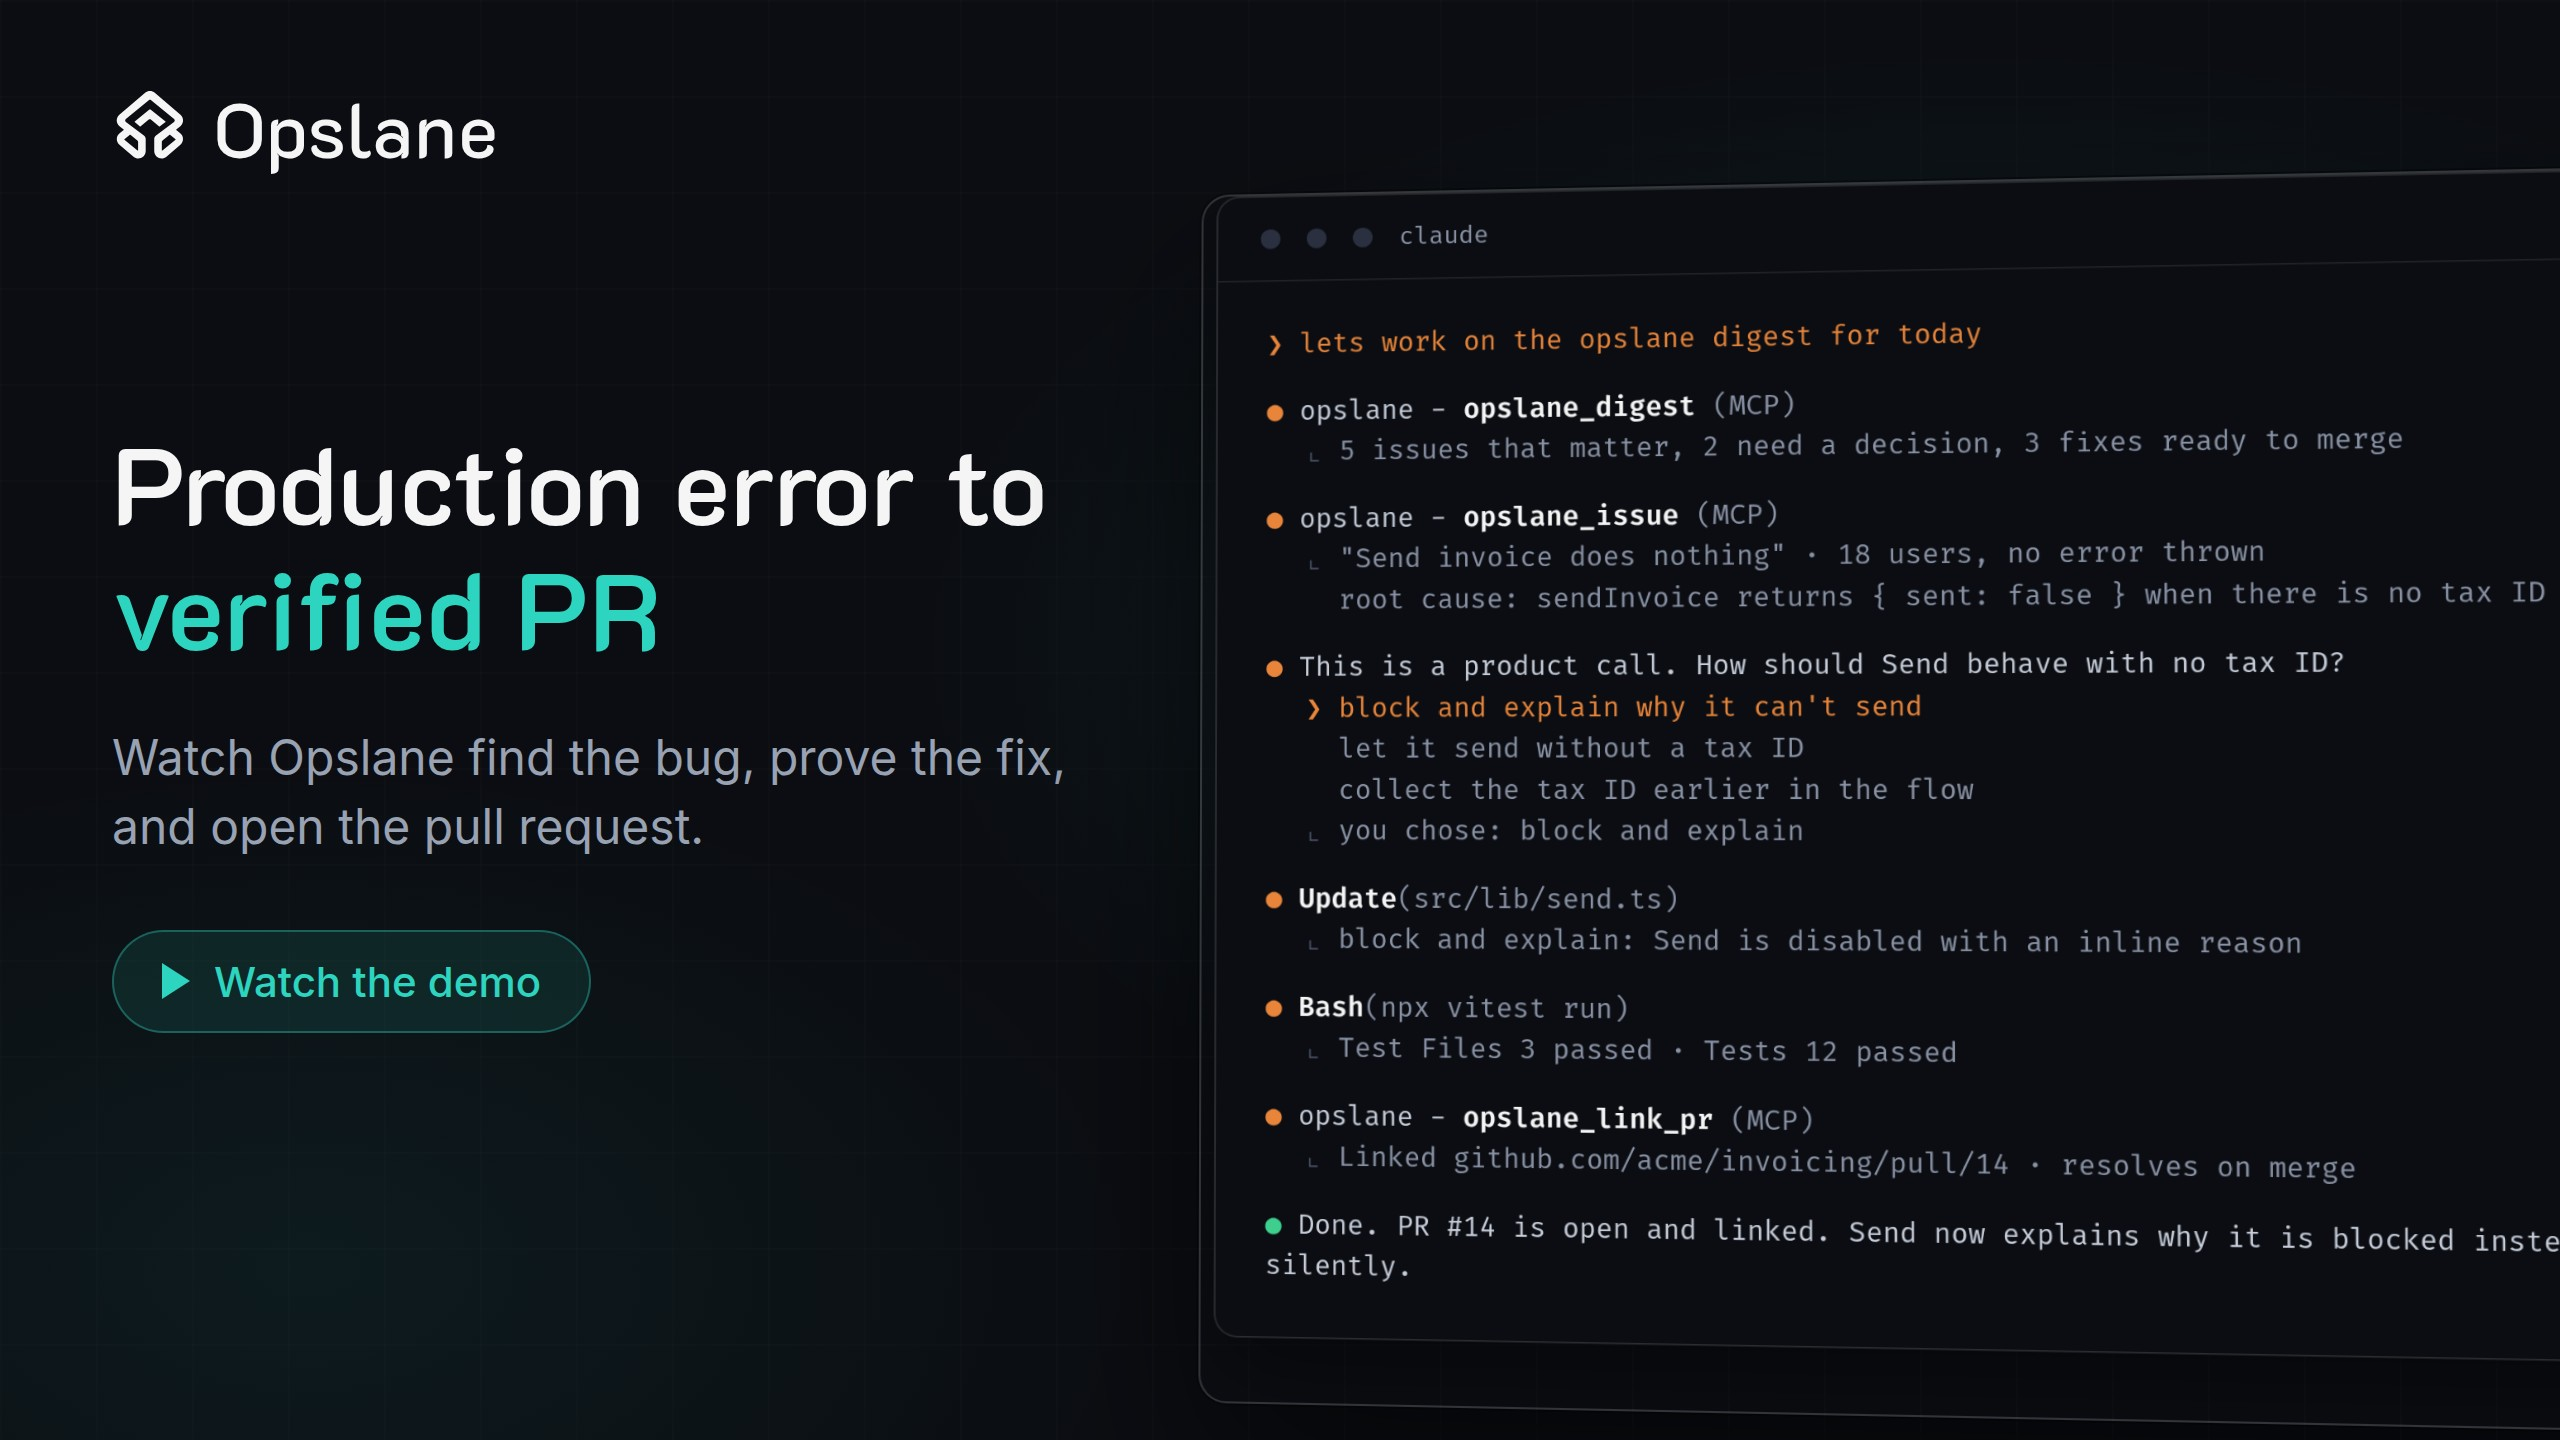
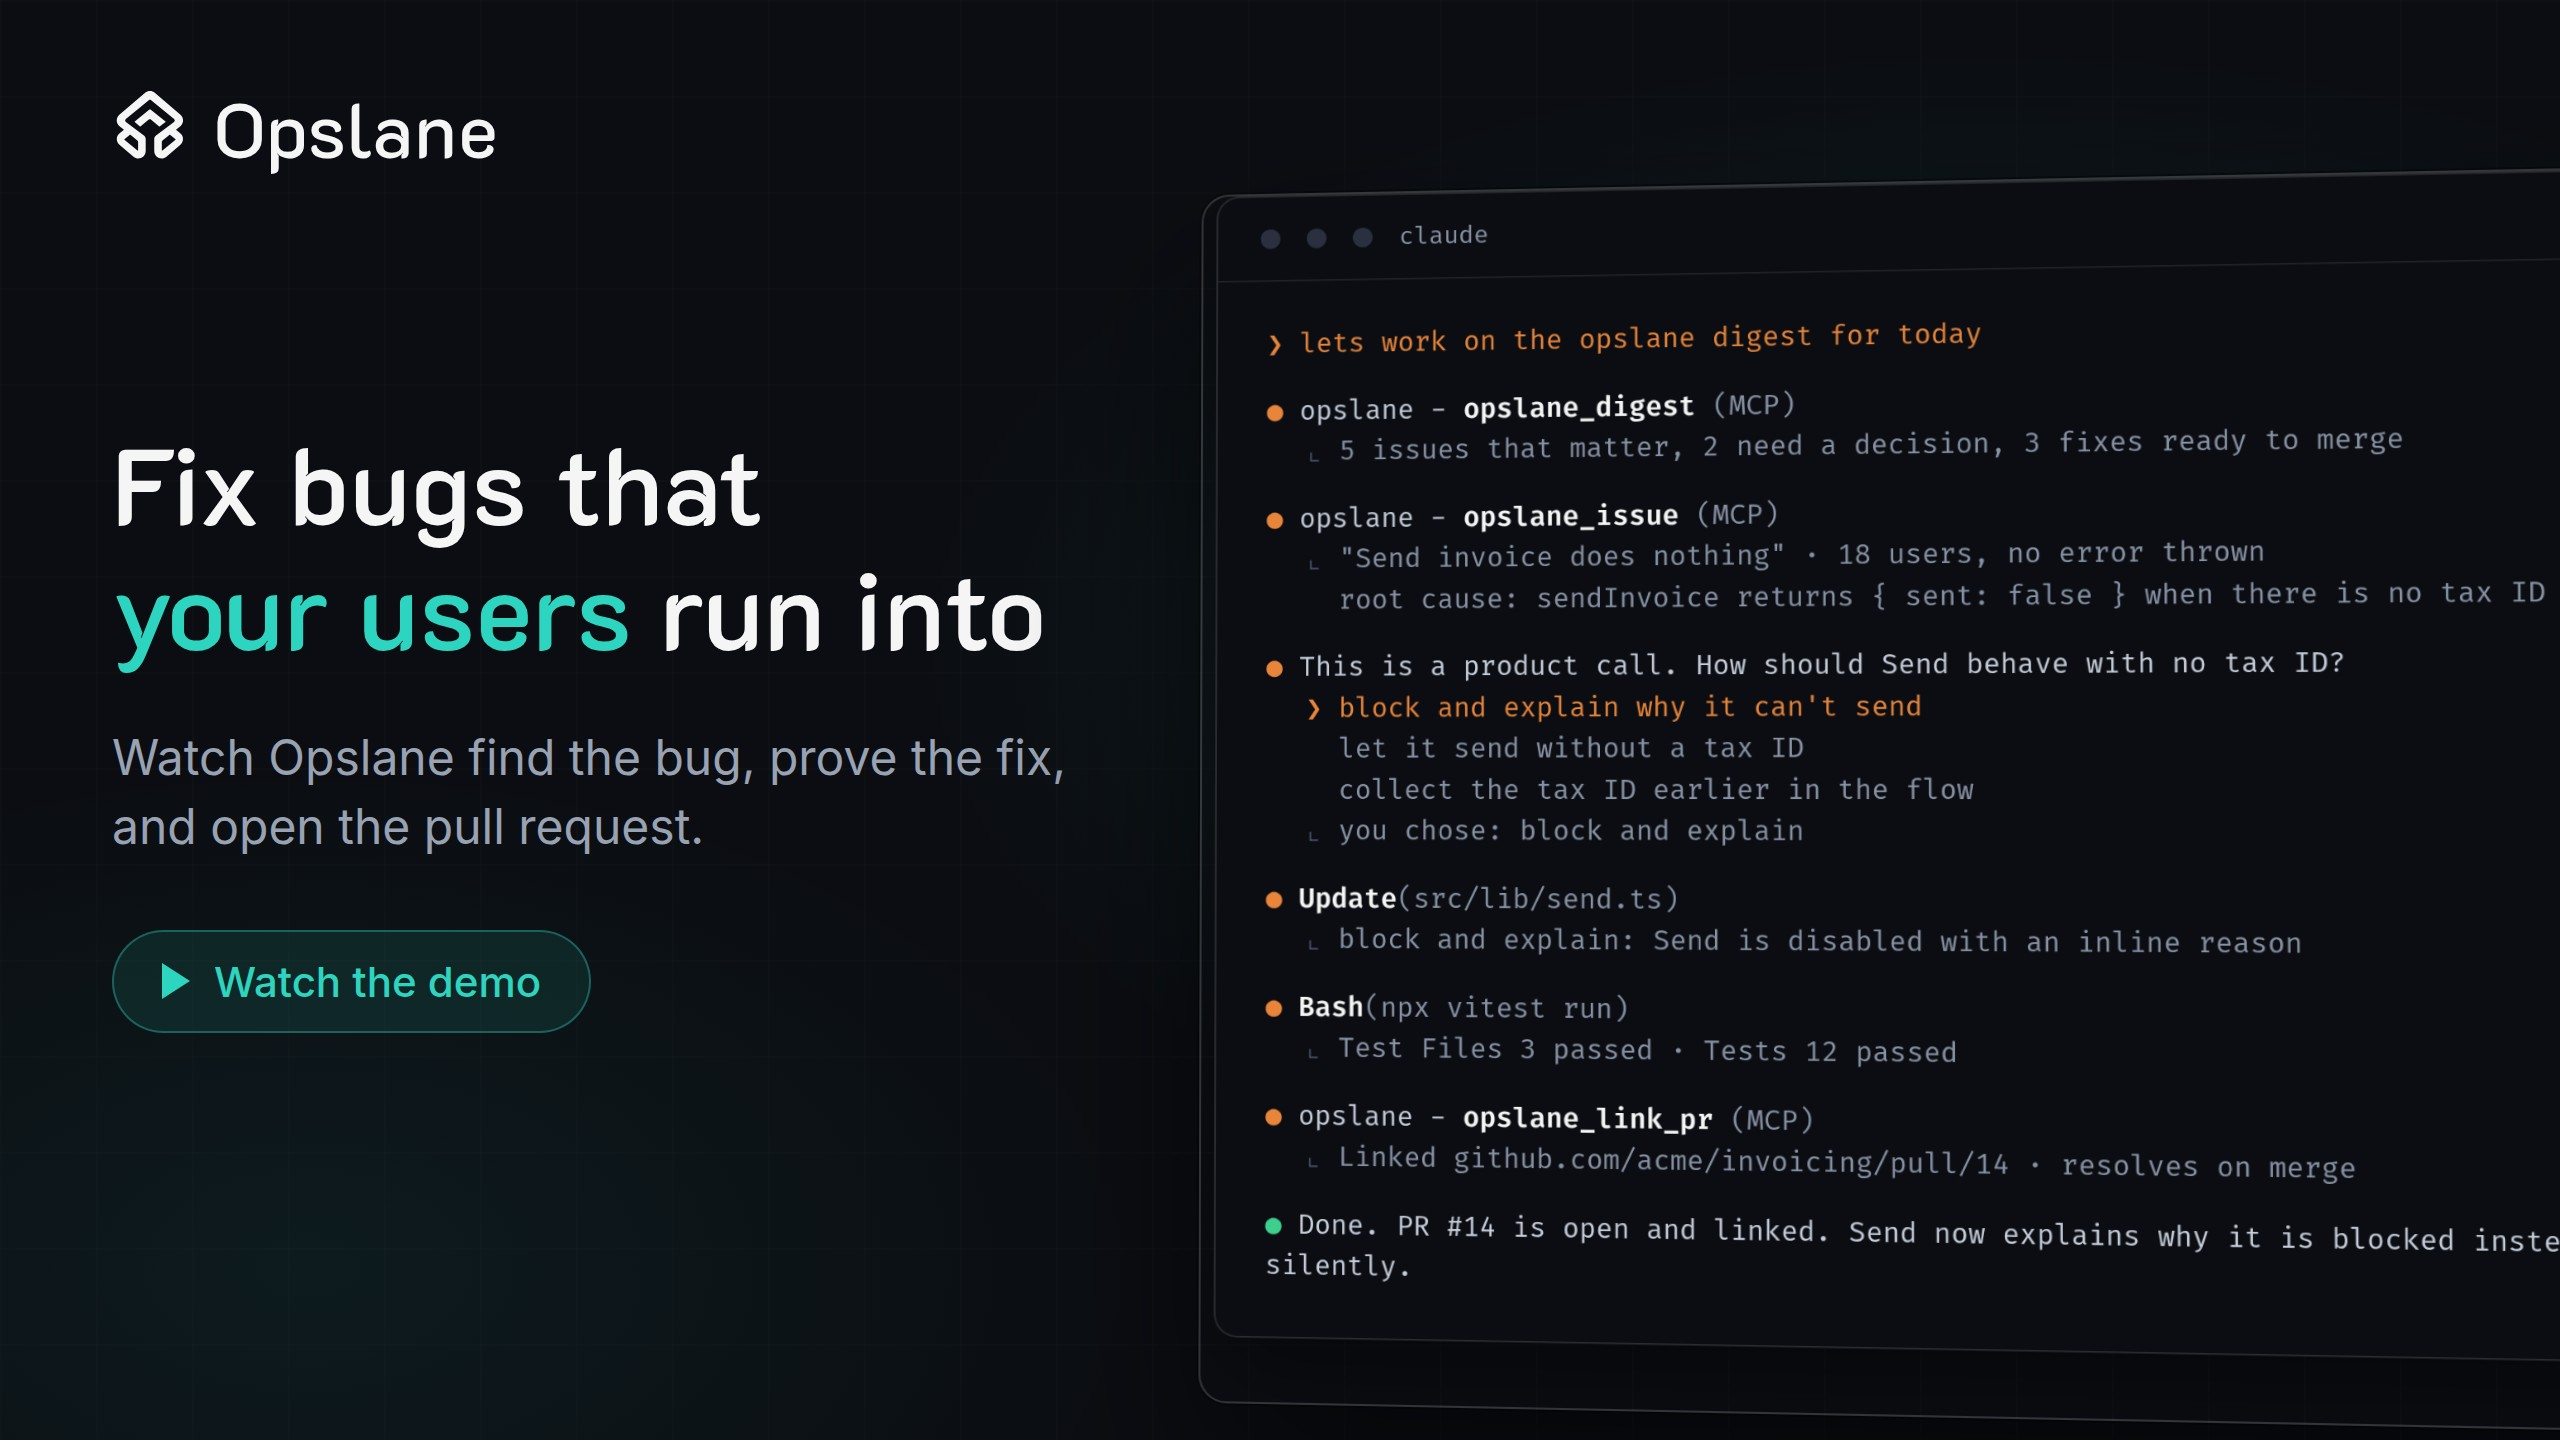
docs(readme): retitle the demo thumbnail to the "Fix bugs that your users run into" tagline

Changed region(s): [[0.0625, 0.3125, 0.4062, 0.4688], [0.0312, 0.4375, 0.0625, 0.4688]]

diff --git a/docs/assets/readme/src/thumbnail.html b/docs/assets/readme/src/thumbnail.html
@@ -37,7 +37,7 @@ then export as JPEG (quality ~90). Needs network access for the Google Fonts sty
   <div class="glow"></div><div class="grid"></div>
   <div class="logo"><img src="mark.svg"><span>Opslane</span></div>
   <div class="left">
-    <h1>Production error to <em>verified&nbsp;PR</em></h1>
+    <h1>Fix bugs that <em>your&nbsp;users</em> run into</h1>
     <p class="sub">Watch Opslane find the bug, prove the fix, and open the pull request.</p>
     <span class="pill"><span class="tri"></span>Watch the demo</span>
   </div>
